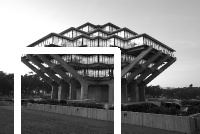
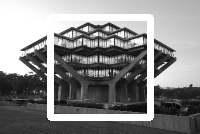
Fixed shape bug

Changed region(s): [[0.09, 0.0896, 0.78, 1.0], [0.06, 0.5373, 0.12, 1.0], [0.09, 0.4179, 0.12, 0.4478]]

diff --git a/project_1/process_local.py b/project_1/process_local.py
@@ -38,8 +38,8 @@ def process_image():
 
 
     center = (new_size[0] // 2, new_size[1] // 2)
-    top_left = (center[0] - 50, center[1] - 50)
-    bottom_right = (center[0] + 50, center[1] + 50)
+    top_left = (center[1] - 50, center[0] - 50)
+    bottom_right = (center[1] + 50, center[0] + 50)
 
     rect_geisel = cv2.rectangle(half_geisel, top_left, bottom_right, color=255,     thickness=5)
 
